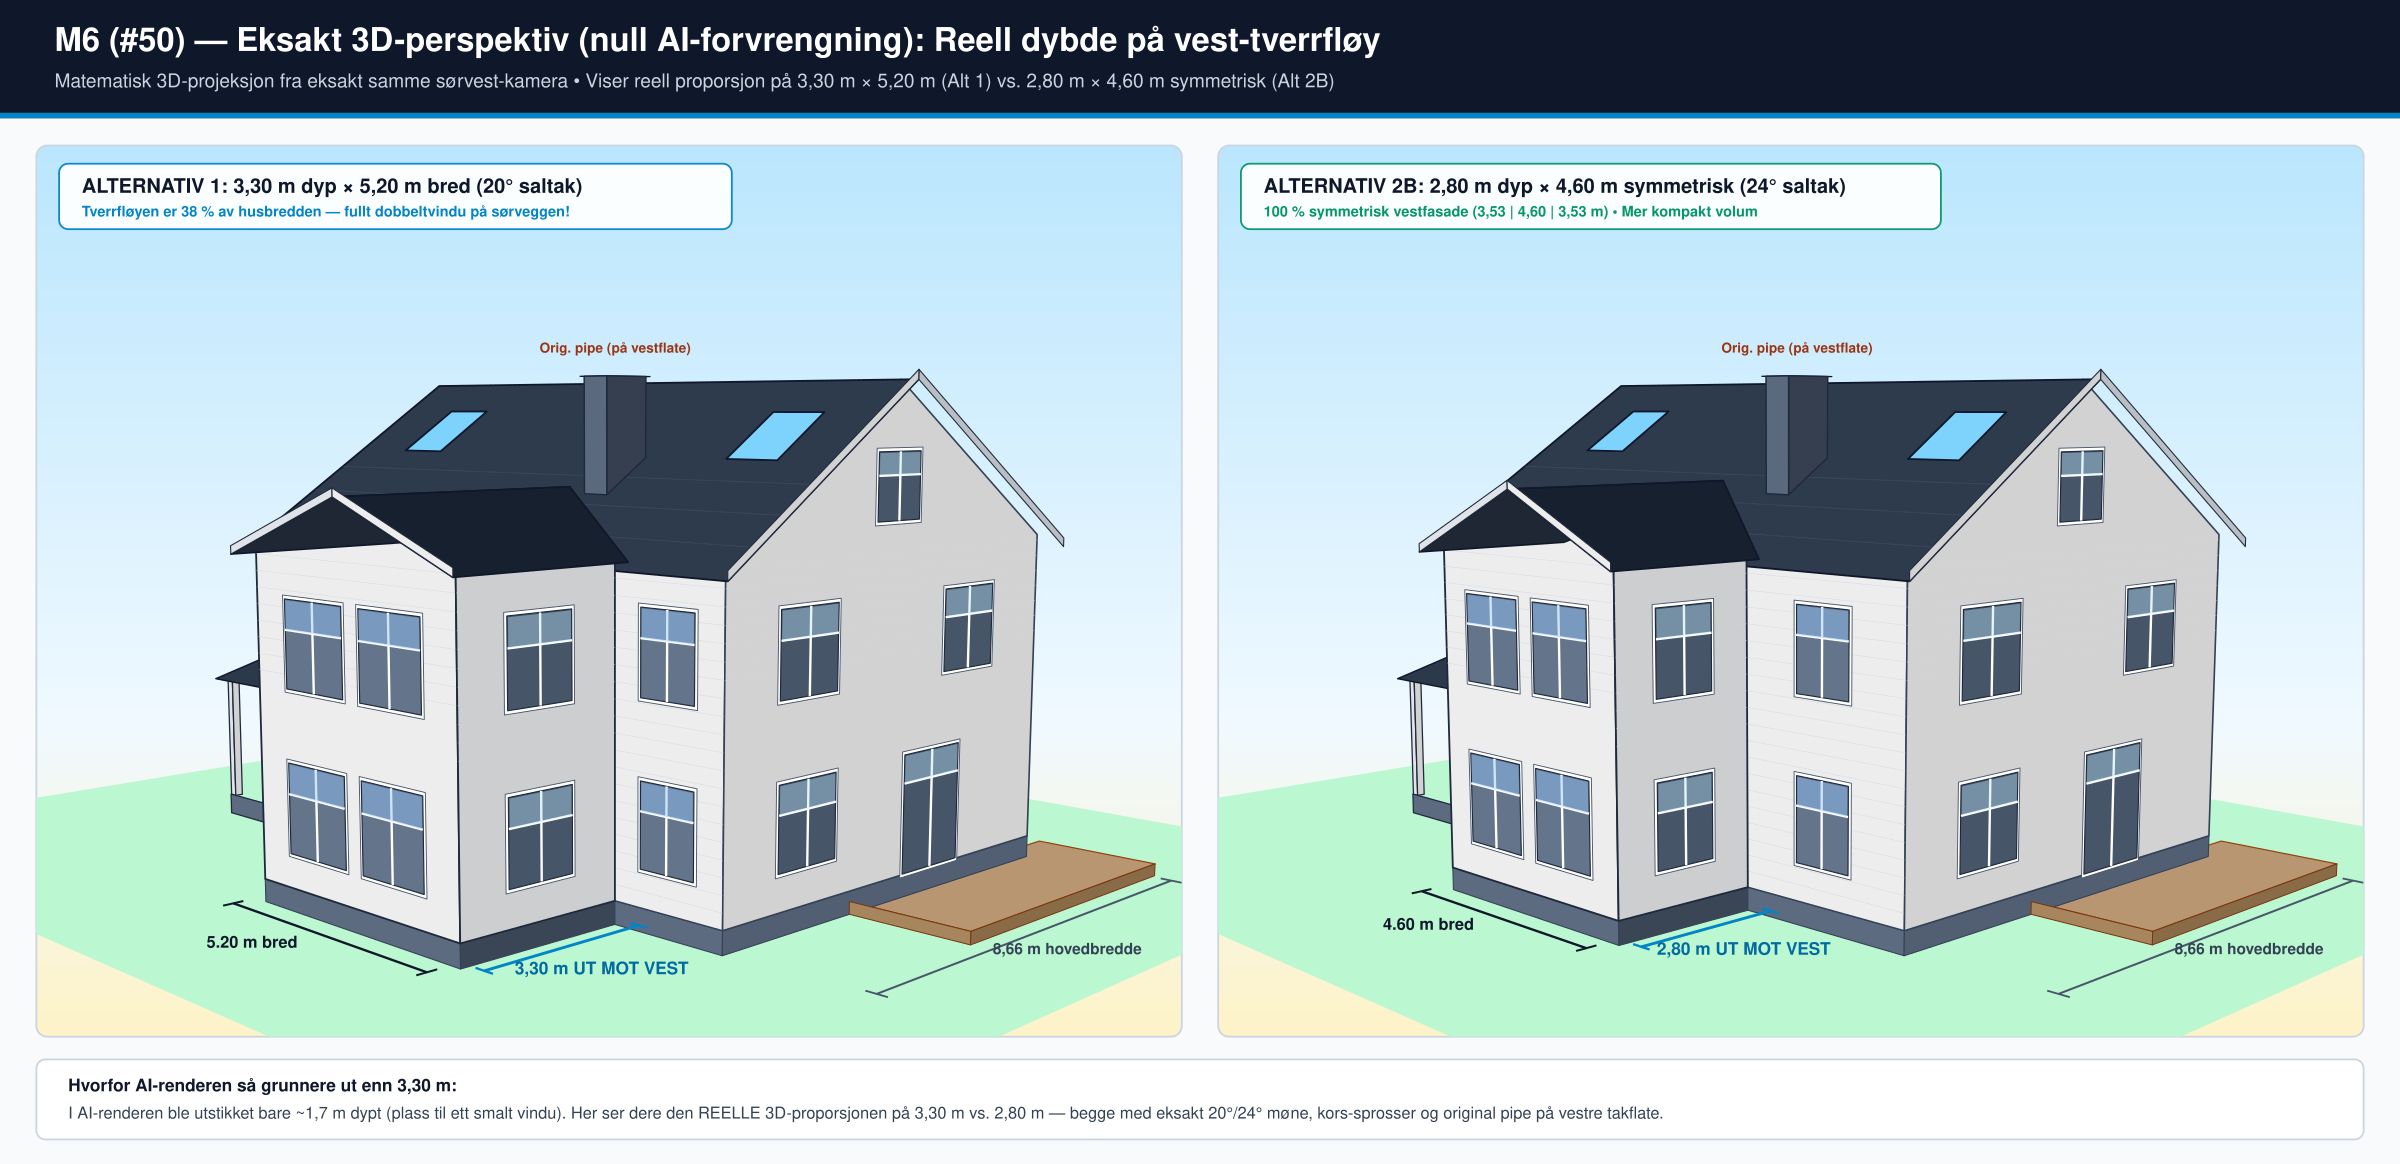
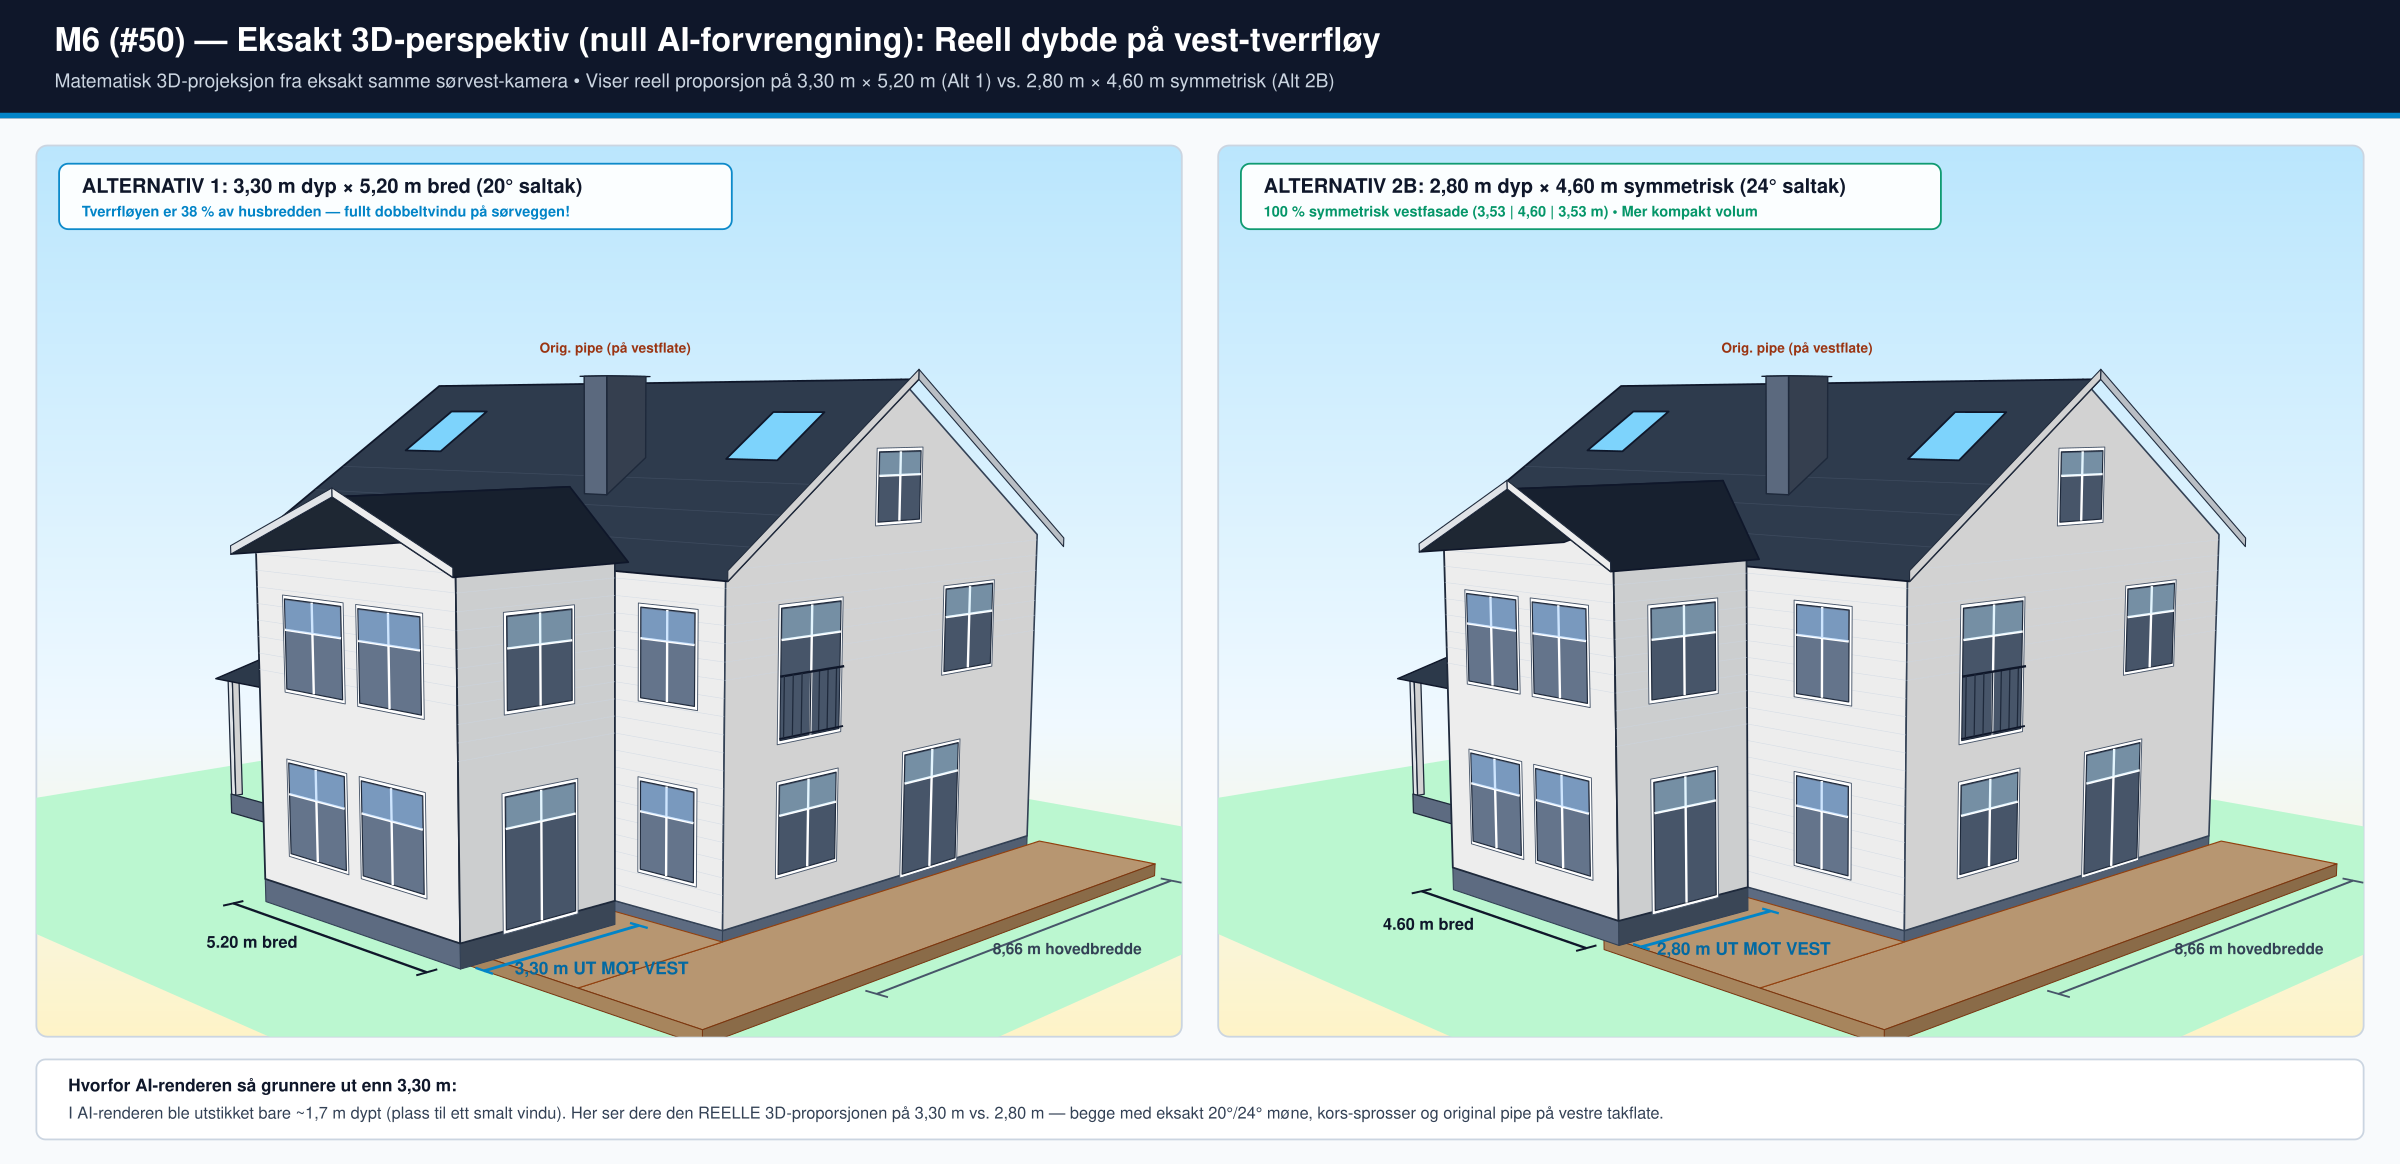
Add west-wing veranda door (1st) and keep south 2nd-floor veranda door w/ French railing (#50)

diff --git a/scripts/generate_3d_perspektiv_eksakt.py b/scripts/generate_3d_perspektiv_eksakt.py
@@ -190,12 +190,14 @@ def build_house_3d(cam: Camera3D, west_d: float, y_s: float, y_n: float, wing_de
     # Gravel driveway north-west
     sc.add_poly([(-700, 1180, 1), (1050, 1180, 1), (1050, 1750, 1), (-700, 1750, 1)],
                 "#d6d3d1", stroke="#a8a29e", sw=1, layer=0, auto_shade=False)
-    # South timber terrace deck (Z = 22)
-    sc.add_poly([(320, -240, 22), (910, -240, 22), (910, 0, 22), (320, 0, 22)],
+    # South timber terrace deck (Z = 22), wrapping around SW corner to meet west-wing veranda door!
+    sc.add_poly([(-310, -240, 22), (910, -240, 22), (910, 0, 22), (-310, 0, 22)],
                 "#d6b084", stroke="#92400e", sw=1.3, layer=1, auto_shade=True, ambient=0.75)
-    sc.add_poly([(320, -240, 0), (910, -240, 0), (910, -240, 22), (320, -240, 22)],
+    sc.add_poly([(-310, 0, 22), (0, 0, 22), (0, y_s, 22), (-310, y_s, 22)],
+                "#d6b084", stroke="#92400e", sw=1.2, layer=1, auto_shade=True, ambient=0.75)
+    sc.add_poly([(-310, -240, 0), (910, -240, 0), (910, -240, 22), (-310, -240, 22)],
                 "#a88358", stroke="#78350f", sw=1.1, layer=1, auto_shade=True)
-    sc.add_poly([(320, -240, 0), (320, 0, 0), (320, 0, 22), (320, -240, 22)],
+    sc.add_poly([(-310, -240, 0), (-310, y_s, 0), (-310, y_s, 22), (-310, -240, 22)],
                 "#b48f64", stroke="#78350f", sw=1.1, layer=1, auto_shade=True)
 
     # --- 1-STORY NORTH EXTENSION (Y=1166..1376, X=0..866, saltak facing north) ---
@@ -232,12 +234,17 @@ def build_house_3d(cam: Camera3D, west_d: float, y_s: float, y_n: float, wing_de
         sc.add_kors_window_west(0, 805, 875, 115, 245, single=True, layer=2)  # Vask 1st
         sc.add_kors_window_west(0, 805, 875, 395, 525, single=True, layer=2)  # Bod 2nd
 
-    # Main South Gable windows & French terrace door
-    sc.add_kors_window_south(0, 130, 275, 105, 250, layer=2)             # Dining 1st
-    sc.add_kors_window_south(0, 465, 625, 42, 252, is_door=True, layer=2)  # Terrace door 1st
-    sc.add_kors_window_south(0, 130, 275, 385, 530, layer=2)             # Living 2nd
-    sc.add_kors_window_south(0, 575, 720, 385, 530, layer=2)             # Sov 3 2nd
-    sc.add_kors_window_south(0, 375, 491, 655, 770, layer=2)             # Loft gable
+    # Main South Gable windows & veranda doors (1st terrace door + 2nd existing veranda door w/ French railing!)
+    sc.add_kors_window_south(0, 130, 275, 105, 250, layer=2)                # Dining 1st
+    sc.add_kors_window_south(0, 465, 625, 42, 252, is_door=True, layer=2)   # Terrace door 1st
+    sc.add_kors_window_south(0, 130, 280, 322, 532, is_door=True, layer=2)  # 2nd floor veranda door (Opphold)!
+    # Subtle matte-black French balcony railing on 2nd floor south veranda door (ready for future south balcony)
+    sc.add_line((124, -6, 425), (286, -6, 425), stroke="#0f172a", sw=2.6, layer=3, depth_bias=-12.0)
+    sc.add_line((124, -6, 326), (286, -6, 326), stroke="#0f172a", sw=2.0, layer=3, depth_bias=-12.0)
+    for rx in range(134, 282, 22):
+        sc.add_line((rx, -6, 326), (rx, -6, 425), stroke="#1e293b", sw=1.4, layer=3, depth_bias=-12.0)
+    sc.add_kors_window_south(0, 575, 720, 385, 530, layer=2)                # Sov 3 2nd
+    sc.add_kors_window_south(0, 375, 491, 655, 770, layer=2)                # Loft gable
 
     # --- MAIN WEST ROOF SLOPE (with 35 cm overhang) ---
     ov_x = -35.0
@@ -303,11 +310,11 @@ def build_house_3d(cam: Camera3D, west_d: float, y_s: float, y_n: float, wing_de
     sc.add_kors_window_west(-west_d, y_mid - gap / 2 - win_w, y_mid - gap / 2, 380, 530, layer=7)
     sc.add_kors_window_west(-west_d, y_mid + gap / 2, y_mid + gap / 2 + win_w, 380, 530, layer=7)
 
-    # South side wall of west wing — FULL double kors-sprosse window centered in west_d!
-    sw_w = 135.0 if west_d >= 300 else 118.0
+    # South side wall of west wing — 1st floor DOUBLE VERANDA DOOR onto SW terrace + 2nd floor double kors-sprosse!
+    sw_w = 148.0 if west_d >= 300 else 132.0
     xc_s = -west_d / 2.0
-    sc.add_kors_window_south(y_s, xc_s - sw_w / 2, xc_s + sw_w / 2, 105, 250, layer=7)
-    sc.add_kors_window_south(y_s, xc_s - sw_w / 2, xc_s + sw_w / 2, 385, 530, layer=7)
+    sc.add_kors_window_south(y_s, xc_s - sw_w / 2, xc_s + sw_w / 2, 42, 252, is_door=True, layer=7)
+    sc.add_kors_window_south(y_s, xc_s - 68, xc_s + 68, 385, 530, layer=7)
 
     # West wing ROOF (South slope + North slope meeting main roof cleanly at exact 3D valley!)
     ov_w = 30.0

diff --git a/scripts/generate_fasader_alle4.py b/scripts/generate_fasader_alle4.py
@@ -260,11 +260,11 @@ def draw_south(d: ElevDraw):
     d.rect(-400, 0, 1380, 42, fill="#dcfce7", opacity=0.8)
     d.line(-400, 0, 980, 0, stroke="#15803d", sw=3)
 
-    # West extension side wall (x=-320..0)
+    # West extension side wall (x=-320..0) — 1st floor DOUBLE VERANDA DOOR onto sheltered SW terrace!
     d.rect(-320, -610, 320, 610, fill="#f8fafc", stroke="#1e293b", sw=2.5)
     d.siding(-320, -610, 320, 570)
     d.rect(-320, -40, 320, 40, fill="#64748b", stroke="#334155", sw=1.5)
-    d.kors_win(-225, -248, 130, 145, single=False)  # Stue 1. etg
+    d.french_door_kors(-235, -250, 150, 210)        # Verandadør ut fra vest-tverrfløy (1. etg)
     d.kors_win(-225, -528, 130, 145, single=False)  # Loftstue 2. etg
 
     # 20° gable roof of west wing in side profile (eaves -600, ridge -708, meets main slope at x=147)
@@ -283,16 +283,23 @@ def draw_south(d: ElevDraw):
     d.rect(0, -40, 866, 40, fill="#64748b", stroke="#334155", sw=1.5)
     d.poly([(-35, -588), (433, -906), (901, -588), (885, -578), (433, -885), (-19, -578)], fill="#1e293b", stroke="#0f172a", sw=2)
 
-    # South gable windows & terrace door (kors-sprosser!)
+    # South gable windows & veranda doors (kors-sprosser!)
     d.kors_win(135, -248, 145, 145, single=False)   # Spisestue 1. etg
-    d.french_door_kors(465, -250, 160, 210)         # Terrassedør fra kjøkken/allrom
-    d.kors_win(135, -528, 145, 145, single=False)   # Opphold 2. etg
+    d.french_door_kors(465, -250, 160, 210)         # Terrassedør fra kjøkken/allrom 1. etg
+    # 2. etg existing south veranda door (in Opphold 2. etg) w/ French balcony railing (ready for future balcony!)
+    d.french_door_kors(135, -530, 150, 208)
+    # Subtle matte-black wrought-iron French balcony railing (TEK17 fall protection until balcony is added)
+    d.rect(128, -422, 164, 6, fill="#1e293b")
+    d.rect(128, -326, 164, 5, fill="#1e293b")
+    for rx in range(138, 288, 16):
+        d.line(rx, -416, rx, -326, stroke="#1e293b", sw=1.8)
+    d.text(210, -545, "Verandadør 2.etg (fransk rekkv. / evt. balkong)", size=10, weight="700", fill="#475569")
     d.kors_win(575, -528, 145, 145, single=False)   # Sov 3 (2. etg)
     d.kors_win(375, -768, 116, 115, single=False)   # Loft gavl (220 cm takhøyde)
 
-    # Timber terrace deck
-    d.rect(360, -24, 540, 24, fill="#d97706", opacity=0.4, stroke="#92400e", sw=1.8)
-    d.text(630, -7, "Markterrasse syd", size=12, weight="700", fill="#78350f")
+    # Timber terrace deck extending around SW corner to west-wing veranda door!
+    d.rect(-280, -24, 1180, 24, fill="#d97706", opacity=0.4, stroke="#92400e", sw=1.8)
+    d.text(320, -7, "Markterrasse sør & sørvest (kobler kjøkken + vest-tverrfløy)", size=12, weight="700", fill="#78350f")
 
     d.dim_h(-320, 0, 70, "3,20 m vest", color="#0284c7", bold=True)
     d.dim_h(0, 866, 70, "8,66 m (eksist. bredde)", bold=True)

diff --git a/scripts/generate_all4_3d_refs.py b/scripts/generate_all4_3d_refs.py
@@ -161,12 +161,16 @@ def build_se_ref():
     sc.add_poly([(548.5, 1166, nz_ridge), (548.5, 1396, nz_ridge), (892, 1396, nz_eaves - 26 * t_main), (892, 1166, nz_eaves - 26 * t_main)],
                 "#1e293b", stroke="#0f172a", sw=1.8, layer=3)
 
-    # Main SOUTH GABLE (Y=0, X=0..866)
+    # Main SOUTH GABLE (Y=0, X=0..866) w/ 1st floor terrace door + 2nd floor veranda door (French railing)
     sc.add_poly([(0, 0, 0), (866, 0, 0), (866, 0, 40), (0, 0, 40)], "#64748b", layer=3)
     sc.add_poly([(0, 0, 40), (866, 0, 40), (866, 0, z_eaves), (433, 0, z_ridge), (0, 0, z_eaves)], "#ffffff", stroke="#1e293b", sw=2.0, layer=3)
     sc.add_kors_window_south(0, 130, 275, 105, 250, layer=4)
     sc.add_kors_window_south(0, 465, 625, 42, 252, is_door=True, layer=4)
-    sc.add_kors_window_south(0, 130, 275, 385, 530, layer=4)
+    sc.add_kors_window_south(0, 130, 280, 322, 532, is_door=True, layer=4)
+    sc.add_line((124, -6, 425), (286, -6, 425), stroke="#0f172a", sw=2.4, layer=5, depth_bias=-12.0)
+    sc.add_line((124, -6, 326), (286, -6, 326), stroke="#0f172a", sw=1.8, layer=5, depth_bias=-12.0)
+    for rx in range(134, 282, 24):
+        sc.add_line((rx, -6, 326), (rx, -6, 425), stroke="#1e293b", sw=1.3, layer=5, depth_bias=-12.0)
     sc.add_kors_window_south(0, 575, 720, 385, 530, layer=4)
     sc.add_kors_window_south(0, 375, 491, 655, 770, layer=4)
 

diff --git a/scripts/generate_vest_alternativer.py b/scripts/generate_vest_alternativer.py
@@ -570,9 +570,10 @@ def build_alt1_floor1(pb: PlanBuilder):
     pb.line(170, 434, 170, 720, stroke="#94a3b8", sw=2.5, dash="8,8")
     pb.line(230, 756, 468, 756, stroke="#94a3b8", sw=2.5, dash="8,8")
 
-    # West & south windows
+    # West & south windows + veranda door on south wall of west wing!
     pb.window_v(-305, 510, 840, 30)
-    pb.window_h(-220, -60, 915, 30)
+    pb.double_terrace_door_h(-150, 915, 150, wall_t=30, swing_down=True)  # Verandadør fra vest-tverrfløy!
+    pb.window_h(-220, -85, 425, 30)  # Dobbeltvindu nord på vest-tilbygg (som i nordfasade-skissen)
     pb.window_h(110, 290, 1151, 30)
     pb.window_v(15, 95, 195, 30)
 
@@ -632,7 +633,8 @@ def build_alt1_floor2(pb: PlanBuilder):
 
     pb.window_v(-305, 510, 840, 30)
     pb.window_h(-220, -60, 915, 30)
-    pb.window_h(120, 320, 1151, 30)
+    pb.window_h(-220, -85, 425, 30)  # Dobbeltvindu nord på vest-tilbygg (2. etg)
+    pb.double_terrace_door_h(215, 1151, 150, wall_t=30, swing_down=False)  # Eksist. verandadør 2. etg sør (fransk balkong / evt. syd-balkong!)
     pb.window_v(15, 95, 195, 30)
 
     pb.stairs_u(36, 36, 212, 212)

diff --git a/docs/ARKITEKTBRIEF_M6_REV2.md b/docs/ARKITEKTBRIEF_M6_REV2.md
@@ -69,7 +69,9 @@ Eksisterende vest-utbygg (`2,28 × 4,07 m`) **rives helt** for enkel tilgang til
 * **Vinduer:** Gjennomgående **ekte norske 4-ruts kors-sprossevinduer** (krysspost) på alle fasader.
 * **Østfasade:** 4 stramme, symmetriske vertikale vindusakser (`Bad/Hovedsov`, `Sov Pult/Bad`, `Sov sør/Sov 2`, `Kjøkken/Sov 3`) + **4 takvinduer linjert rett over fasadevinduene**.
 * **Nordfasade:** Parallelt `32,7°` saltak på nord-tilbygg (smalt bodvindu + dobbelt vindfangvindu + portico m/ rekkverk), smalt trappevindu 1. etg + dobbelt 2. etg vindu til høyre, ingen nordvindu på hovedsoverom, sentrert loftsvindu, samt 1. og 2. etg dobbeltvinduer på nordsiden av vest-tilbygget.
-* **Sørgavl:** Ren 1947-gavl uten syd-tilbygg, dobbel sprosset terrassedør ut til markterrasse i tre, 2 kors-sprossevinduer i 2. etg + sentrert loftsvindu.
+* **Sørgavl & Vest-tverrfløy (verandadører):**
+  * **1. etg:** Dobbel sprosset terrassedør på sørgavlen fra kjøkken/allrom **+ dobbel sprosset verandadør på sørveggen av vest-tverrfløyen** (bevarer fri vestvegg til L-sofa inne og åpner rett ut til en lun, vindskjermet L-formet markterrasse rundt sørvest-hjørnet).
+  * **2. etg:** Eksisterende **verandadør på sørgavlen** beholdes (plassert i oppholdsrommet på sørvestsiden med fransk balkongrekkverk i fase 1, klargjort for eventuell senere syd-balkong). Sentrert loftsvindu i gavlspissen.
 
 ---
 
